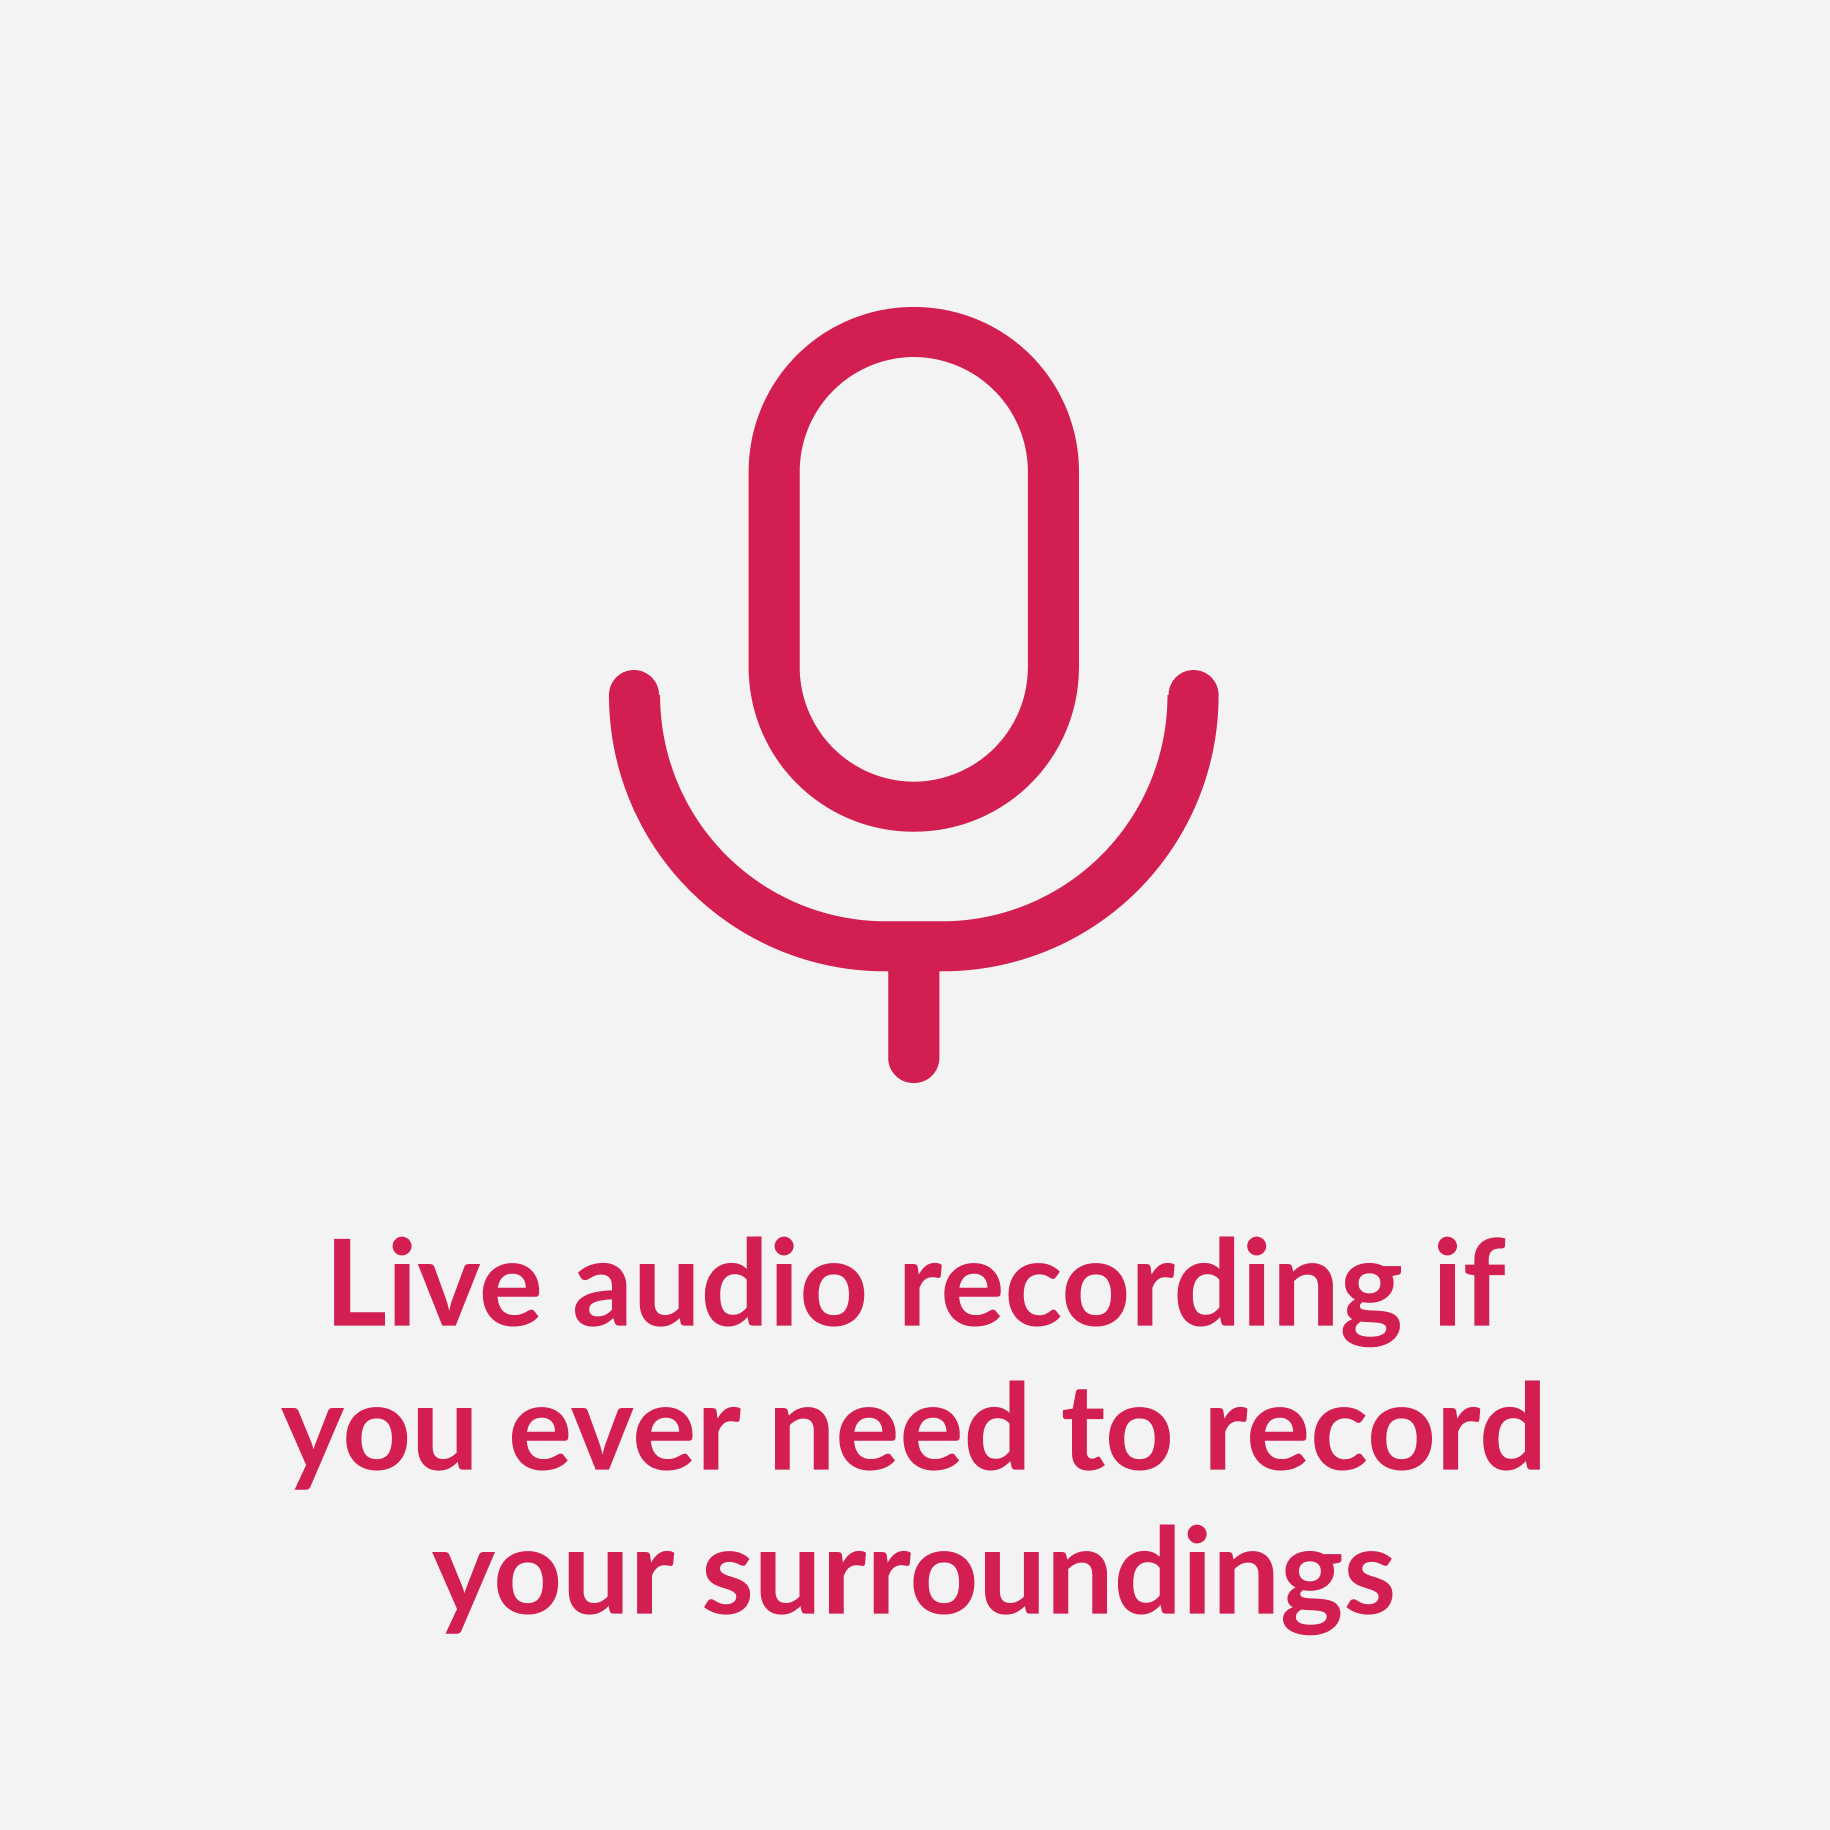
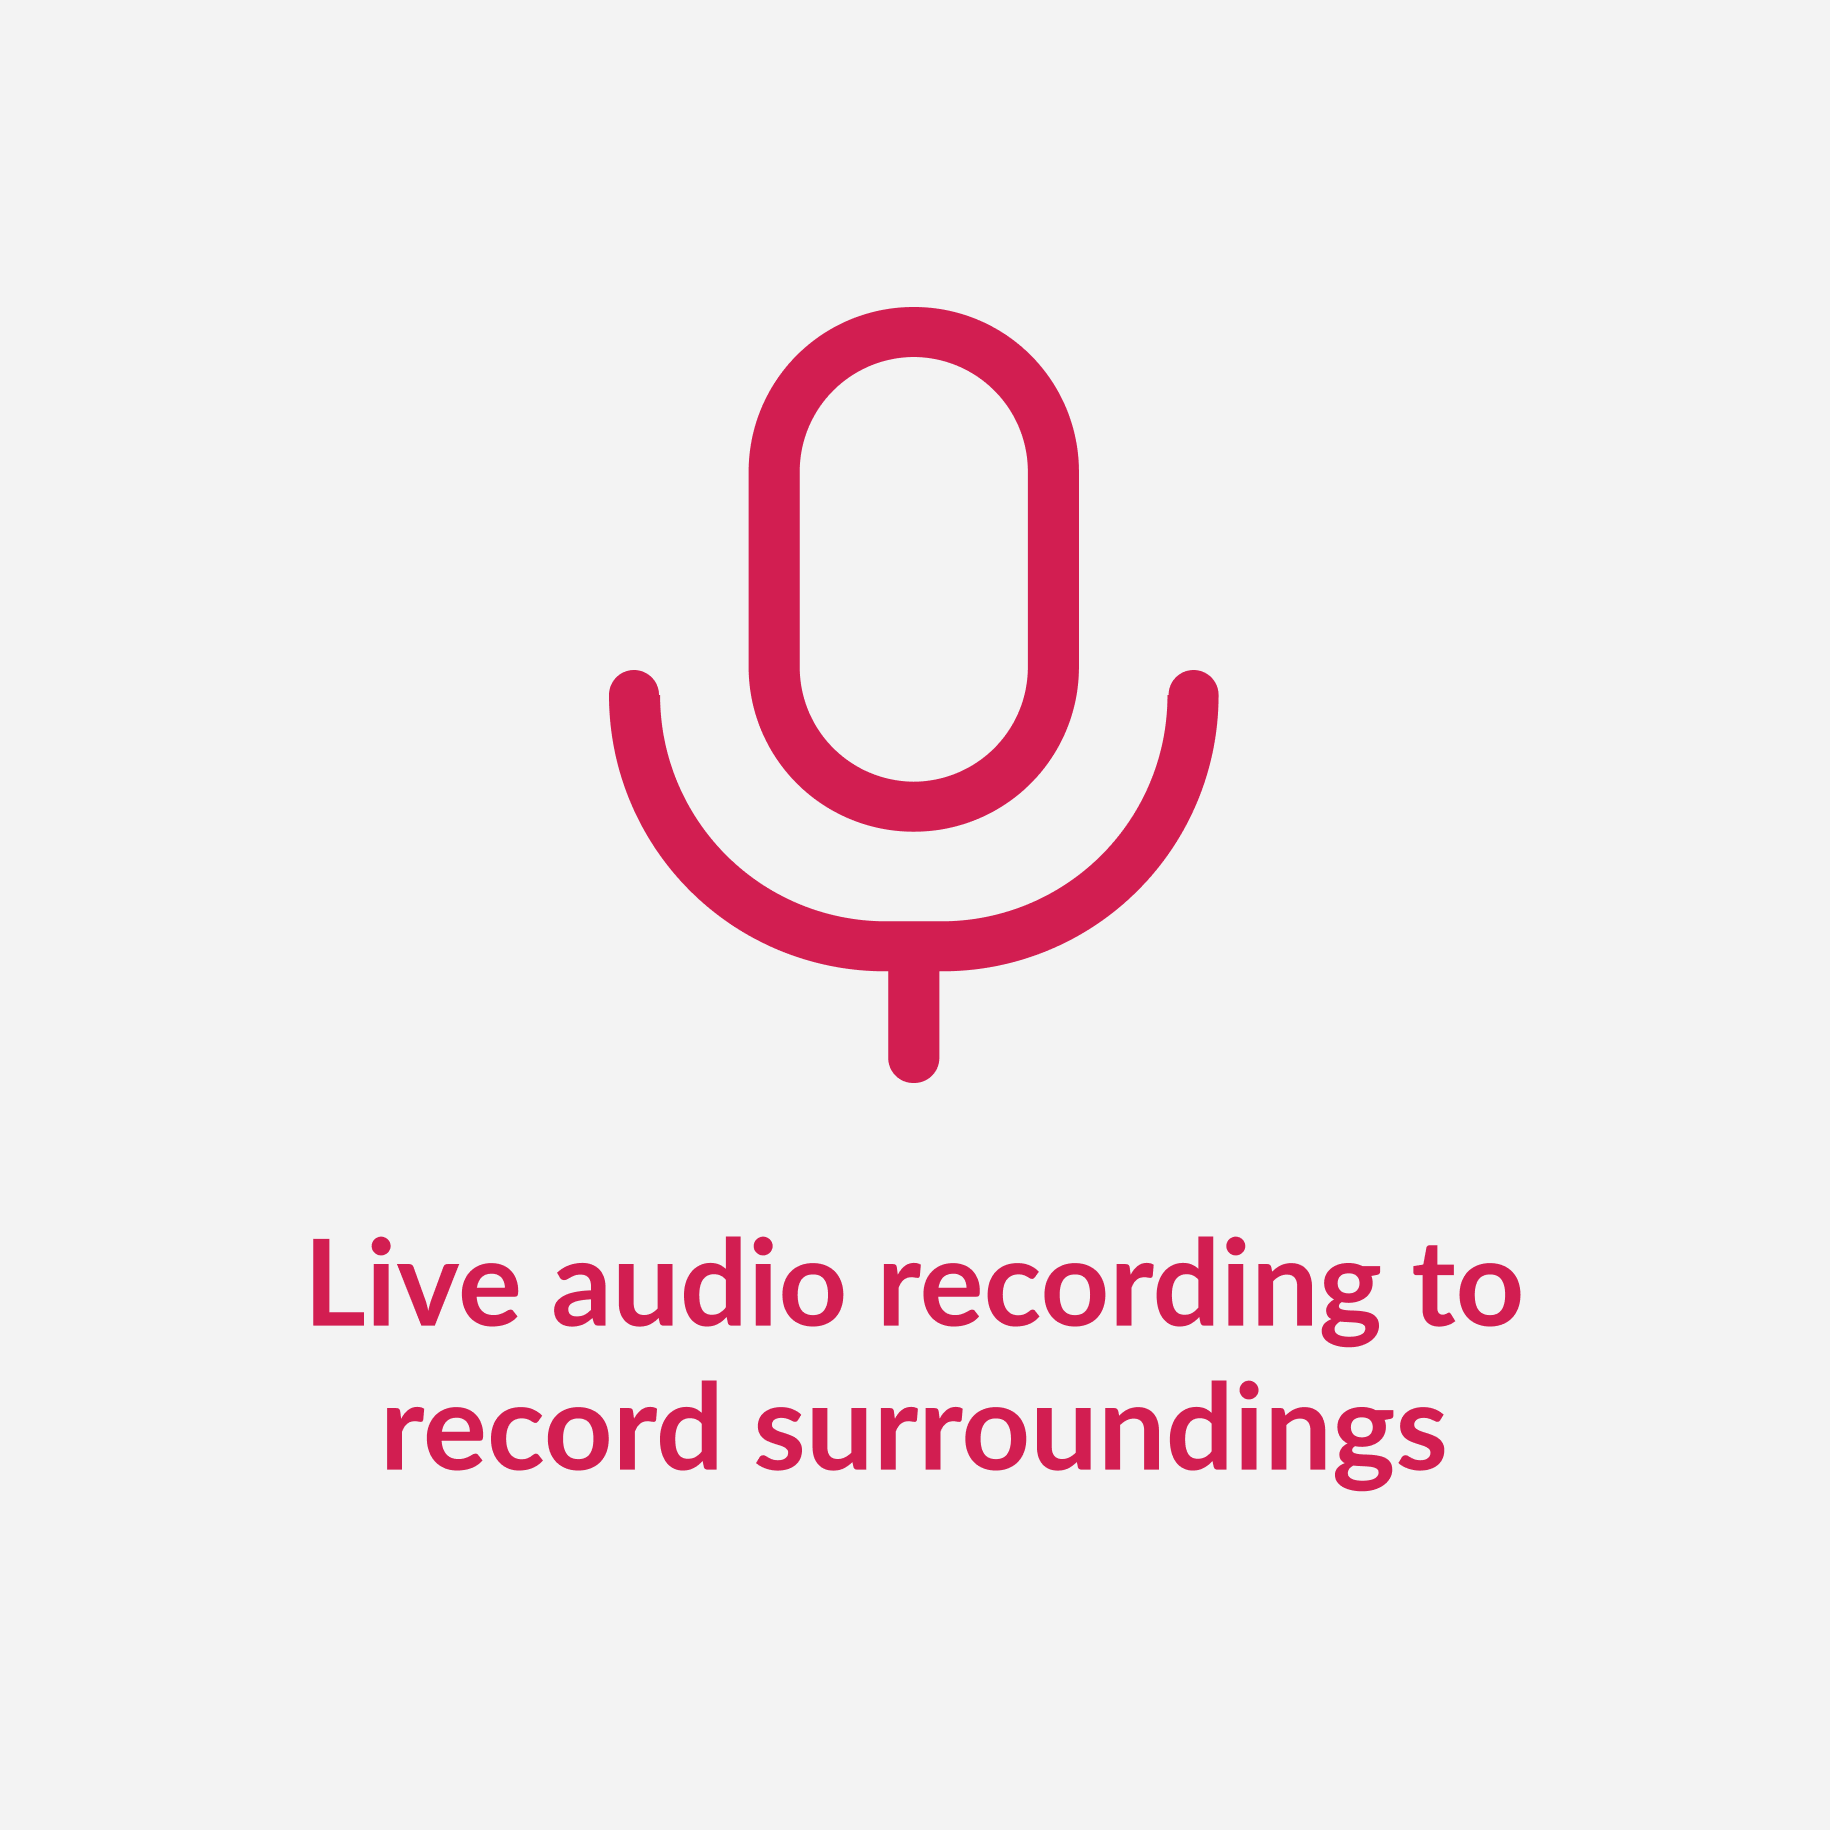
Changes 26/09/26
noting changes on this date

Changed region(s): [[0.1557, 0.6541, 0.841, 0.9033]]

diff --git a/graphicdesignwork.html b/graphicdesignwork.html
@@ -3,7 +3,7 @@
 <head>
 <meta charset="UTF-8">
 <meta name="viewport" content="width=device-width, initial-scale=1.0">
-<title>Sugar Rush — Design by Sian</title>
+<title>Graphic Design Work — Design by Sian</title>
 <link rel="preconnect" href="https://fonts.googleapis.com">
 <link href="https://fonts.googleapis.com/css2?family=Fraunces:opsz,wght@9..144,400;9..144,500;9..144,600&family=Lato:ital,wght@0,400;0,700;0,900;1,400;1,700&display=swap" rel="stylesheet">
 <link rel="stylesheet" href="style.css">
@@ -63,8 +63,22 @@
   </section>
   
     <div class="detail-block">
-      <h2>Logo Design - Wai Taiko</h2><p>Combined Japanese calligraphy with a flowing river motif reflecting both tradition and movement.</p>
-      <div class="placeholder-visual" style="background:transparent;min-height:0;"><img src="images/waitaiko-research.jpg" alt="Wai Taiko user research stats" style="width:100%;border-radius:var(--radius);display:block;"></div>
+      <h2>Logo Design - Wai Taiko</h2>
+      <p>The goal was to design a logo that captures Wai Taiko’s cultural heritage and connection to the Waikato region. Japanese calligraphy is combined with a flowing river motif to reflect both tradition and movement while the swirl 'o' motif links back to their original logo.</p>
+      <div class="feature-grid">
+        <div class="feature-item">
+          <img src="images/waitaiko-logo-original.png" alt="wai taiko home wireframe" class="feature-icon-waitaiko">
+        </div>
+        <div class="feature-item">
+          <img src="images/waitaiko-progress.png" alt="wai taiko about wireframe" class="feature-icon-waitaiko">
+        </div>
+        <div class="feature-item">
+          <img src="images/waitaiko-logo.png" alt="wai taiko perform wireframe" class="feature-icon-waitaiko">
+        </div>
+        <div class="feature-item">
+          <img src="images/waitaiko-icon.png" alt="wai taiko book wireframe" class="feature-icon-waitaiko">
+        </div>
+      </div>
     </div>
   
   <div class="detail-block">
@@ -81,7 +95,20 @@
     
   <div class="detail-block">
       <h2>Logo Design - Cottage Life</h2><p>Created a cottage graphic to reflect content of the brand, surrounding the text to give a more 'cozy cottage' feel.</p>
-      <div class="placeholder-visual" style="background:transparent;min-height:0;"><img src="images/cottagelife-logo%20development.png" alt="Wai Taiko user research stats" style="width:100%;border-radius:var(--radius);display:block;"></div>
+      <div class="feature-grid">
+        <div class="feature-item">
+          <img src="images/cottagelife-original.png" alt="wai taiko home wireframe" class="feature-icon-waitaiko">
+        </div>
+        <div class="feature-item">
+          <img src="images/cottagelife-progress.png" alt="wai taiko about wireframe" class="feature-icon-waitaiko">
+        </div>
+        <div class="feature-item">
+          <img src="images/cottagelife-logo.png" alt="wai taiko perform wireframe" class="feature-icon-waitaiko">
+        </div>
+        <div class="feature-item">
+          <img src="images/cottagelife-icon.png" alt="wai taiko book wireframe" class="feature-icon-waitaiko">
+        </div>
+      </div>
     </div>
   
 </main>

diff --git a/hamwest.html b/hamwest.html
@@ -81,7 +81,7 @@
     </details>
     <details class="accordion-block" name="pd-accordion">
       <summary class="accordion-toggle"><h2 class="accordion-label">The result</h2><span class="accordion-chev">&darr;</span></summary>
-      <div class="accordion-body"><p>The school board and Principal was thrilled with the result. The final website received positive feedback from both staff and parents, and it's now a much more effective information too. It was a proud milestone in my design journey and gave me valuable experience working with my second real-world client and managing a project from start to finish.</p></div>
+      <div class="accordion-body"><p>The school board and Principal was thrilled with the result. The final website received positive feedback from both staff and parents, and it's now a much more effective information too. It was a proud milestone in my design journey and gave me valuable experience and managing a project from start to finish.</p></div>
     </details>
   
     <div class="detail-block">
@@ -134,9 +134,22 @@
 
     <div class="detail-block">
       <h2>Low-fi</h2>
-      <p>Established a layout and overall structure using the site architecture. Focused on creating clear sections using hierarchy in text following a logical structure.</p>
-      <div class="placeholder-visual" style="background:transparent;min-height:0;"><img src="images/hamwest-wireframe-home.png" alt="Hamilton West School wireframe home" style="width:100%;border-radius:var(--radius);display:block;"></div>
-      <div class="placeholder-visual" style="background:transparent;min-height:0;"><img src="images/hamwest-wireframe-parentportal.png" alt="Hamilton West School wireframe parent portal" style="width:100%;border-radius:var(--radius);display:block;"></div>
+          <p>Established a layout and overall structure using the site architecture. Focused on creating clear sections using hierarchy in text following a logical structure.</p>
+      
+      <div class="feature-grid">
+        <div class="feature-item">
+          <img src="images/hamwest-wireframe-home.png" alt="wai taiko home wireframe" class="feature-icon-waitaiko">
+        </div>
+        <div class="feature-item">
+          <img src="images/hamwest-wireframe-parentportal.png" alt="wai taiko about wireframe" class="feature-icon-waitaiko">
+        </div>
+        <div class="feature-item">
+          <img src="images/hamwest-wireframe-about.png" alt="wai taiko perform wireframe" class="feature-icon-waitaiko">
+        </div>
+        <div class="feature-item">
+          <img src="images/hamwest-wireframe-people.png" alt="wai taiko book wireframe" class="feature-icon-waitaiko">
+        </div>
+      </div>
     </div>
 
     <div class="detail-block">

diff --git a/waitaiko.html b/waitaiko.html
@@ -80,7 +80,7 @@
     </details>
     <details class="accordion-block" name="pd-accordion">
       <summary class="accordion-toggle"><h2 class="accordion-label">The result</h2><span class="accordion-chev">&darr;</span></summary>
-      <div class="accordion-body"><p>The group responded enthusiastically to the new logo, website, and business card, noting how well the updated visuals captured their spirit and professionalism. The designs have helped modernise their image and present a more unified presence both online and in print. This was an exciting first client experience and a rewarding opportunity to combine cultural respect with modern design thinking.</p></div>
+      <div class="accordion-body"><p>The group responded enthusiastically to the new logo, website, and business card, noting how well the updated visuals captured their spirit and professionalism. The designs have helped modernise their image and present a more unified presence both online and in print. This was an exciting experience and a rewarding opportunity to combine cultural respect with modern design thinking.</p></div>
     </details>
   
     <div class="detail-block">
@@ -88,16 +88,16 @@
       <p>Goal was to simplify the website to only showcase key information. Went from multiple sub-menus to four main pages: home, about, performances, contact, book. This was to create easier navigation.</p>
       <div class="feature-grid">
   <div class="feature-item">
-    <img src="images/waitaiko-lowfi-home.png" alt="wai taiko home wireframe" class="feature-icon">
+    <img src="images/waitaiko-lowfi-home.png" alt="wai taiko home wireframe" class="feature-icon-waitaiko">
   </div>
   <div class="feature-item">
-    <img src="images/waitaiko-lowfi-about.png" alt="wai taiko about wireframe" class="feature-icon">
+    <img src="images/waitaiko-lowfi-about.png" alt="wai taiko about wireframe" class="feature-icon-waitaiko">
   </div>
   <div class="feature-item">
-    <img src="images/waitaiko-lowfi-perform.png" alt="wai taiko perform wireframe" class="feature-icon">
+    <img src="images/waitaiko-lowfi-perform.png" alt="wai taiko perform wireframe" class="feature-icon-waitaiko">
   </div>
   <div class="feature-item">
-    <img src="images/waitaiko-lowfi-book.png" alt="wai taiko book wireframe" class="feature-icon">
+    <img src="images/waitaiko-lowfi-book.png" alt="wai taiko book wireframe" class="feature-icon-waitaiko">
   </div>
 </div>
     </div>

diff --git a/defendher.html b/defendher.html
@@ -122,23 +122,28 @@
       </div>
     </div>
     <div class="detail-block">
-      <div class="flow-grid">
-        <div class="flow-left">
-          <h2>Flow path</h2>
-          <p>I created a simple user flow to gather the key screens needed for the low-fi design.</p>
-          
-          
-        </div>
-        <div class="flow-right">
-          <div class="placeholder-visual" style="background:transparent;min-height:0;"><img src="images/defendher-flow.jpg" alt="DefendHER user flow diagram" style="width:100%;border-radius:var(--radius);display:block;"></div>
-        </div>
-      </div>
+      <h2>Flow path</h2>
+      <p>I created a simple user flow to gather the key screens needed for the low-fi design.</p>
+      <div class="placeholder-visual" style="background:transparent;min-height:0;"><img src="images/defendher-flow.jpg" alt="DefendHER user flow diagram" style="width:100%;border-radius:var(--radius);display:block;"></div>
     </div>
 
     <div class="detail-block">
       <h2>Low-fi</h2>
       <p>These wireframes focused purely on functionality, helping shape the app before any visual design began.</p>
-      <div class="placeholder-visual" style="background:transparent;min-height:0;"><img src="images/defendher-lofi.jpg" alt="DefendHER low-fidelity wireframes" style="width:100%;border-radius:var(--radius);display:block;"></div>
+      <div class="feature-grid">
+        <div class="feature-item">
+          <img src="images/defendher-lowfi-warning.png" alt="wai taiko home wireframe" class="feature-icon-waitaiko">
+        </div>
+        <div class="feature-item">
+          <img src="images/defendher-lowfi-home.png" alt="wai taiko about wireframe" class="feature-icon-waitaiko">
+        </div>
+        <div class="feature-item">
+          <img src="images/defendher-lowfi-alerts.png" alt="wai taiko perform wireframe" class="feature-icon-waitaiko">
+        </div>
+        <div class="feature-item">
+          <img src="images/defendher-lowfi-location.png" alt="wai taiko book wireframe" class="feature-icon-waitaiko">
+        </div>
+      </div>
     </div>
   
   <div class="detail-block">

diff --git a/style.css b/style.css
@@ -334,7 +334,7 @@
 .feature-grid {
   display: grid;
   grid-template-columns: repeat(4, 1fr);
-  gap: 20px;
+  gap: 50px;
 }
 
 .feature-item {
@@ -352,6 +352,15 @@
   text-align: left;
 }
 
+
+.feature-icon-waitaiko{
+  width: 100%;
+  border-radius:var(--radius);
+  display:block;
+  margin-top:28px;
+}
+
+
 .feature-grid-double {
   display: grid;
   grid-template-columns: repeat(2, 1fr);
@@ -364,12 +373,13 @@
   text-align: left;
 }
 
+
 @media (max-width: 640px) {
   .feature-grid {
     grid-template-columns: 1fr;
     align-content: center;
     margin: auto;
-    width: 90%;
+    width: 100%;
   }
   .feature-item {
     margin-bottom: 50px;    
